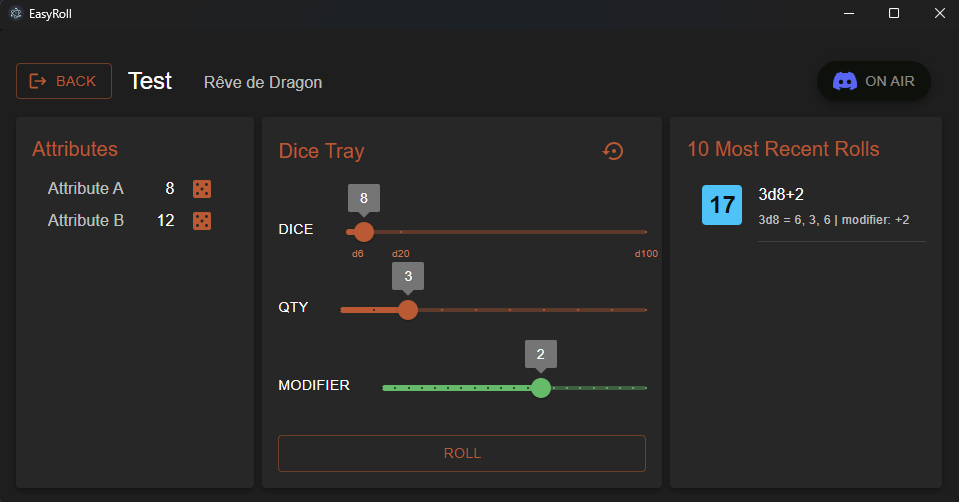
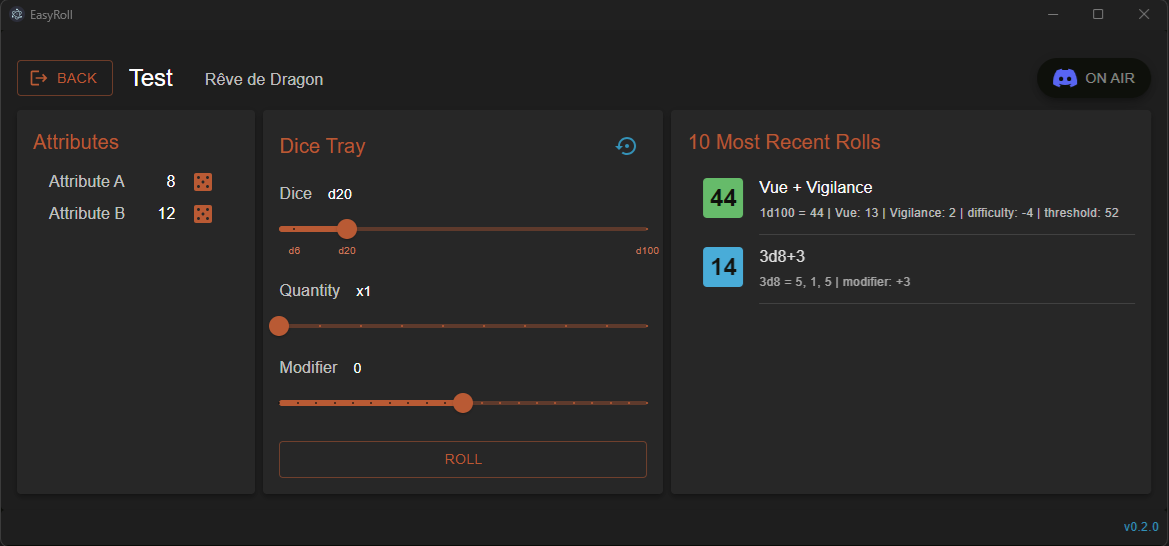
fin de la passe de relooking
formulaire sur une colonne, reset en icon secondary

diff --git a/src/components/rdd/rdd-roll.tsx b/src/components/rdd/rdd-roll.tsx
@@ -5,6 +5,7 @@ import Card from '@mui/material/Card'
 import Stack from '@mui/material/Stack'
 import Slider from '@mui/material/Slider'
 import Typography from '@mui/material/Typography'
+import IconButton from '@mui/material/IconButton'
 import Button from '@mui/material/Button'
 import { CardContent, CardActions, FormControl, InputLabel } from '@mui/material'
 import MenuItem from '@mui/material/MenuItem'
@@ -65,48 +66,45 @@ export const RddRoll = ({ attributeName, abilities }: Props) => {
             <Typography variant='h6' color='primary'>{attributeName}</Typography>
           </Grid>
           <Grid item xs='auto'>
-            <Button onClick={handleReset}>
+            <IconButton color='secondary' onClick={handleReset}>
               <SettingsBackupRestoreIcon />
-            </Button>
+            </IconButton>
           </Grid>
         </Grid>
         <CardContent>
-          <Stack direction='column' spacing={2}>
-              <Stack direction='row' spacing={4} alignItems='center'>
-                <Typography variant='button'>Ability</Typography>
-                <FormControl fullWidth>
-                  <InputLabel>Pick one</InputLabel>
-                  <Select
-                    value={abilityName}
-                    label='Pick one'
-                    onChange={handleAbilitySelection}
-                  >
-                    <MenuItem value=''>None</MenuItem>
-                    {sortedAbilities.map((ability) =>
-                      <MenuItem key={ability.name} value={ability.name}>
-                        <AbilityItem ability={ability} />
-                      </MenuItem>
-                    )}
-                  </Select>
-                </FormControl>
+          <Stack gap={4}>
+            <FormControl fullWidth>
+              <InputLabel>Pick an ability</InputLabel>
+              <Select
+                value={abilityName}
+                label='Pick an ability'
+                onChange={handleAbilitySelection}
+              >
+                <MenuItem value=''>None</MenuItem>
+                {sortedAbilities.map((ability) =>
+                  <MenuItem key={ability.name} value={ability.name}>
+                    <AbilityItem ability={ability} />
+                  </MenuItem>
+                )}
+              </Select>
+            </FormControl>
+            <Box>
+              <Stack direction='row' spacing={2} sx={{ mb: 1 }} alignItems='baseline'>
+                <Typography color='text.secondary'>Modifier</Typography>
+                <Typography variant='body2'>{`${modifier > 0 ? '+' :''}${modifier}`}</Typography>
               </Stack>
-            <Stack />
-            <Stack />
-            <Stack direction='row' spacing={4}>
-                <Typography variant='button'>Modifier</Typography>
-                <Slider
-                  value={modifier}
-                  onChange={handleModifierChange}
-                  min={-20}
-                  max={+20}
-                  step={1}
-                  marks
-                  valueLabelDisplay='on'
-                  sx={{
-                    color: evaluateModifierColor(modifier)
-                  }}
-                />
-            </Stack>
+              <Slider
+                value={modifier}
+                onChange={handleModifierChange}
+                min={-20}
+                max={+20}
+                step={1}
+                marks
+                sx={{
+                  color: evaluateModifierColor(modifier)
+                }}
+              />
+            </Box>
           </Stack>
         </CardContent>
         <CardActions>

diff --git a/src/components/dice-tray.tsx b/src/components/dice-tray.tsx
@@ -4,6 +4,7 @@ import Stack from '@mui/material/Stack'
 import Grid from '@mui/material/Grid'
 import Slider from '@mui/material/Slider'
 import Typography from '@mui/material/Typography'
+import IconButton from '@mui/material/IconButton'
 import Button from '@mui/material/Button'
 import SettingsBackupRestoreIcon from '@mui/icons-material/SettingsBackupRestore'
 import { evaluateModifierColor } from './common/style-helpers'
@@ -52,20 +53,23 @@ export const DiceTray = () => {
 
   return (
     <Box sx={{ minWidth: 400 }}>
-      <Stack padding={2}>
+      <Stack padding={2} gap={2}>
         <Grid container alignItems='center'>
           <Grid item xs>
             <Typography variant='h6' color='primary'>Dice Tray</Typography>
           </Grid>
           <Grid item xs='auto'>
-            <Button onClick={handleReset}>
+            <IconButton color='secondary' onClick={handleReset}>
               <SettingsBackupRestoreIcon />
-            </Button>
+            </IconButton>
           </Grid>
         </Grid>
-        <Stack padding='3rem 0 2rem 0' spacing={6}>
-          <Stack direction='row' spacing={4}>
-            <Typography variant='button'>Dice</Typography>
+        <Stack gap={1}>
+          <Box>
+            <Stack direction='row' spacing={2} sx={{ mb: 1 }} alignItems='baseline'>
+              <Typography color='text.secondary'>Dice</Typography>
+              <Typography variant='body2'>{`d${diceFaceQty}`}</Typography>
+            </Stack>
             <Slider
               value={diceFaceQty}
               onChange={handleDiceFaceChange}
@@ -73,7 +77,6 @@ export const DiceTray = () => {
               max={100}
               step={1}
               marks={diceFaceQtyMarks}
-              valueLabelDisplay='on'
               sx={{
                 '& .MuiSlider-markLabel': {
                   color: 'primary.light',
@@ -81,9 +84,12 @@ export const DiceTray = () => {
                 },
               }}
             />
-          </Stack>
-          <Stack direction='row' spacing={4}>
-            <Typography variant='button'>Qty</Typography>
+          </Box>
+          <Box>
+            <Stack direction='row' spacing={2} sx={{ mb: 1 }} alignItems='baseline'>
+              <Typography color='text.secondary'>Quantity</Typography>
+              <Typography variant='body2'>{`x${diceQty}`}</Typography>
+            </Stack>
             <Slider
               value={diceQty}
               onChange={handleDiceQtyChange}
@@ -91,11 +97,13 @@ export const DiceTray = () => {
               max={10}
               step={1}
               marks
-              valueLabelDisplay='on'
             />
-          </Stack>
-          <Stack direction='row' spacing={4}>
-            <Typography variant='button'>Modifier</Typography>
+          </Box>
+          <Box>
+            <Stack direction='row' spacing={2} sx={{ mb: 1 }} alignItems='baseline'>
+              <Typography color='text.secondary'>Modifier</Typography>
+              <Typography variant='body2'>{`${modifier > 0 ? '+' :''}${modifier}`}</Typography>
+            </Stack>
             <Slider
               value={modifier}
               onChange={handleModifierChange}
@@ -103,12 +111,11 @@ export const DiceTray = () => {
               max={+10}
               step={1}
               marks
-              valueLabelDisplay='on'
               sx={{
                 color: evaluateModifierColor(modifier)
               }}
             />
-          </Stack>
+          </Box>
         </Stack>
         <Button variant='outlined' color='primary' onClick={handleRoll} fullWidth>
           Roll

diff --git a/src/components/aria/aria-roll.tsx b/src/components/aria/aria-roll.tsx
@@ -7,6 +7,7 @@ import ToggleButtonGroup from '@mui/material/ToggleButtonGroup'
 import ToggleButton from '@mui/material/ToggleButton'
 import Slider from '@mui/material/Slider'
 import Typography from '@mui/material/Typography'
+import IconButton from '@mui/material/IconButton'
 import Button from '@mui/material/Button'
 import { CardContent, CardActions } from '@mui/material'
 import SettingsBackupRestoreIcon from '@mui/icons-material/SettingsBackupRestore'
@@ -69,16 +70,19 @@ export const AriaRoll = ({ rollStat, statName }: Props) => {
             <Typography variant='h6' color='primary'>{statName}</Typography>
           </Grid>
           <Grid item xs='auto'>
-            <Button onClick={handleReset}>
+            <IconButton color='secondary' onClick={handleReset}>
               <SettingsBackupRestoreIcon />
-            </Button>
+            </IconButton>
           </Grid>
         </Grid>
         <CardContent>
-          <Stack direction='column' spacing={2}>
+          <Stack gap={4}>
             { rollStat === 'Attribute' &&
-              <Stack direction='row' spacing={4} alignItems='center'>
-                <Typography variant='button'>Multiplier</Typography>
+              <Box>
+                <Stack direction='row' spacing={2} sx={{ mb: 1 }} alignItems='baseline'>
+                  <Typography color='text.secondary'>Multiplier</Typography>
+                  <Typography variant='body2'>{`x${difficulty}`}</Typography>
+                </Stack>
                 <ToggleButtonGroup
                   value={difficulty.toString()}
                   exclusive
@@ -91,25 +95,25 @@ export const AriaRoll = ({ rollStat, statName }: Props) => {
                   <PrimaryToggleButton value='4'>x4</PrimaryToggleButton>
                   <PrimaryToggleButton value='5'>x5</PrimaryToggleButton>
                 </ToggleButtonGroup>
-              </Stack>
+              </Box>
             }
-            <Stack />
-            <Stack />
-            <Stack direction='row' spacing={4}>
-                <Typography variant='button'>Modifier</Typography>
-                <Slider
-                  value={modifier}
-                  onChange={handleModifierChange}
-                  min={-30}
-                  max={+30}
-                  step={10}
-                  marks
-                  valueLabelDisplay='on'
-                  sx={{
-                    color: evaluateModifierColor(modifier)
-                  }}
-                />
-            </Stack>
+            <Box>
+              <Stack direction='row' spacing={2} sx={{ mb: 1 }} alignItems='baseline'>
+                <Typography color='text.secondary'>Modifier</Typography>
+                <Typography variant='body2'>{`${modifier > 0 ? '+' :''}${modifier}`}</Typography>
+              </Stack>
+              <Slider
+                value={modifier}
+                onChange={handleModifierChange}
+                min={-30}
+                max={+30}
+                step={10}
+                marks
+                sx={{
+                  color: evaluateModifierColor(modifier)
+                }}
+              />
+            </Box>
           </Stack>
         </CardContent>
         <CardActions>
